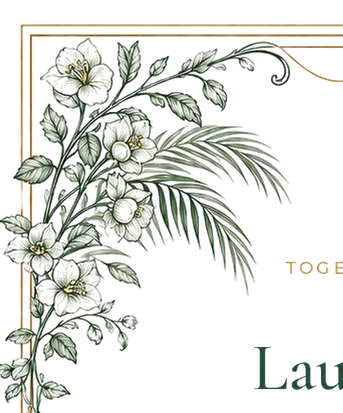
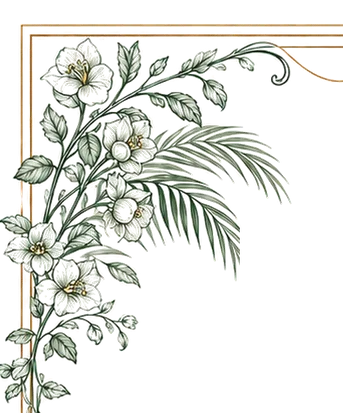
Fix invitation art: erase embedded card text from crops, paint content above art, clearance + smaller corners

Changed region(s): [[0.7289, 0.8426, 1.0, 0.9588], [0.8163, 0.6102, 1.0, 0.6683], [0.6997, 0.5521, 0.758, 0.7264]]

diff --git a/src/components/guest/GuestPageClient.tsx b/src/components/guest/GuestPageClient.tsx
@@ -506,31 +506,31 @@ export default function GuestPageClient({ guest, members: initialMembers, note, 
       <div className="bg-[#FAF4EF] max-w-[480px] w-full relative shadow-[0_2px_20px_rgba(36,76,58,0.10)]">
         {/* Invitation artwork — botanical corners + ornaments extracted from the printed suite */}
         {/* eslint-disable-next-line @next/next/no-img-element */}
-        <img src="/invite/corner-tl.webp" alt="" aria-hidden className="pointer-events-none select-none absolute top-0 left-0 w-[167px]" />
+        <img src="/invite/corner-tl.webp" alt="" aria-hidden className="pointer-events-none select-none absolute top-0 left-0 w-[110px] sm:w-[140px]" />
         {/* eslint-disable-next-line @next/next/no-img-element */}
-        <img src="/invite/corner-tr.webp" alt="" aria-hidden className="pointer-events-none select-none absolute top-0 right-0 w-[167px]" />
+        <img src="/invite/corner-tr.webp" alt="" aria-hidden className="pointer-events-none select-none absolute top-0 right-0 w-[110px] sm:w-[140px]" />
         {/* eslint-disable-next-line @next/next/no-img-element */}
-        <img src="/invite/corner-bl.webp" alt="" aria-hidden className="pointer-events-none select-none absolute bottom-0 left-0 w-[167px]" />
+        <img src="/invite/corner-bl.webp" alt="" aria-hidden className="pointer-events-none select-none absolute bottom-0 left-0 w-[100px] sm:w-[120px]" />
         {/* eslint-disable-next-line @next/next/no-img-element */}
-        <img src="/invite/corner-br.webp" alt="" aria-hidden className="pointer-events-none select-none absolute bottom-0 right-0 w-[167px]" />
+        <img src="/invite/corner-br.webp" alt="" aria-hidden className="pointer-events-none select-none absolute bottom-0 right-0 w-[100px] sm:w-[120px]" />
         {/* eslint-disable-next-line @next/next/no-img-element */}
         <img src="/invite/ornament-top.webp" alt="" aria-hidden className="pointer-events-none select-none absolute top-0 left-1/2 -translate-x-1/2 w-[87px]" />
         {/* eslint-disable-next-line @next/next/no-img-element */}
         <img src="/invite/ornament-bottom.webp" alt="" aria-hidden className="pointer-events-none select-none absolute bottom-0 left-1/2 -translate-x-1/2 w-[87px]" />
 
         {/* Frame connectors — fade out before reaching the corner art so nothing has to align to the pixel */}
-        <div className="pointer-events-none absolute top-[12px] left-[150px] right-[150px] h-px bg-gradient-to-r from-transparent via-gold/70 to-transparent" />
-        <div className="pointer-events-none absolute top-[17px] left-[150px] right-[150px] h-px bg-gradient-to-r from-transparent via-gold/40 to-transparent" />
-        <div className="pointer-events-none absolute bottom-[12px] left-[150px] right-[150px] h-px bg-gradient-to-r from-transparent via-gold/70 to-transparent" />
-        <div className="pointer-events-none absolute bottom-[17px] left-[150px] right-[150px] h-px bg-gradient-to-r from-transparent via-gold/40 to-transparent" />
-        <div className="pointer-events-none absolute left-[10px] top-[190px] bottom-[190px] w-px bg-gradient-to-b from-transparent via-gold/70 to-transparent" />
-        <div className="pointer-events-none absolute left-[15px] top-[190px] bottom-[190px] w-px bg-gradient-to-b from-transparent via-gold/40 to-transparent" />
-        <div className="pointer-events-none absolute right-[10px] top-[190px] bottom-[190px] w-px bg-gradient-to-b from-transparent via-gold/70 to-transparent" />
-        <div className="pointer-events-none absolute right-[15px] top-[190px] bottom-[190px] w-px bg-gradient-to-b from-transparent via-gold/40 to-transparent" />
+        <div className="pointer-events-none absolute top-[12px] left-[130px] right-[130px] h-px bg-gradient-to-r from-transparent via-gold/70 to-transparent" />
+        <div className="pointer-events-none absolute top-[17px] left-[130px] right-[130px] h-px bg-gradient-to-r from-transparent via-gold/40 to-transparent" />
+        <div className="pointer-events-none absolute bottom-[12px] left-[112px] right-[112px] h-px bg-gradient-to-r from-transparent via-gold/70 to-transparent" />
+        <div className="pointer-events-none absolute bottom-[17px] left-[112px] right-[112px] h-px bg-gradient-to-r from-transparent via-gold/40 to-transparent" />
+        <div className="pointer-events-none absolute left-[10px] top-[160px] bottom-[138px] w-px bg-gradient-to-b from-transparent via-gold/70 to-transparent" />
+        <div className="pointer-events-none absolute left-[15px] top-[160px] bottom-[138px] w-px bg-gradient-to-b from-transparent via-gold/40 to-transparent" />
+        <div className="pointer-events-none absolute right-[10px] top-[160px] bottom-[138px] w-px bg-gradient-to-b from-transparent via-gold/70 to-transparent" />
+        <div className="pointer-events-none absolute right-[15px] top-[160px] bottom-[138px] w-px bg-gradient-to-b from-transparent via-gold/40 to-transparent" />
 
         {/* Status strip */}
         {showStrip && (rsvpSubmitted || rsvpDeadlineDate) && (
-          <div className="sticky top-2 z-20 mx-4 mt-4 px-4 py-3 bg-[#F4EDDC] border border-gold/30 shadow-sm flex items-center justify-center gap-x-3 gap-y-1 flex-wrap text-[12px] tracking-[1.5px] uppercase text-ink-soft">
+          <div className="sticky top-2 z-20 mx-4 mt-7 px-4 py-3 bg-[#F4EDDC] border border-gold/30 shadow-sm flex items-center justify-center gap-x-3 gap-y-1 flex-wrap text-[12px] tracking-[1.5px] uppercase text-ink-soft">
             {!rsvpSubmitted ? (
               <>
                 <span className="inline-flex items-center gap-1.5">
@@ -562,7 +562,8 @@ export default function GuestPageClient({ guest, members: initialMembers, note, 
           </div>
         )}
 
-        <div className="px-8 py-12 sm:px-10 sm:py-14 text-center">
+        {/* relative => content paints ABOVE the absolutely-positioned corner art */}
+        <div className="relative px-8 pt-16 pb-20 sm:px-10 sm:pt-16 sm:pb-20 text-center">
           {/* Top label — save-the-date framing until the address is in, then invitation framing */}
           <p className="font-body font-normal text-[10px] tracking-[6px] uppercase text-gold mb-8 animate-fadeUp">
             {phase === "save_the_date" ? "Save the Date" : "Together with their families"}
